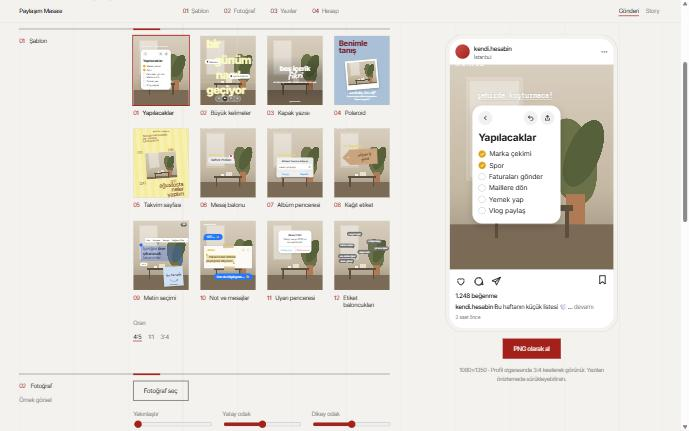
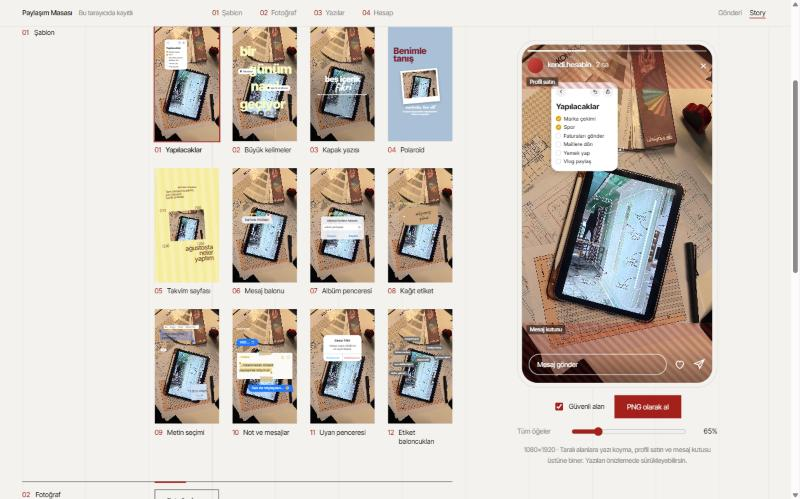
Paylaşım Masası önizlemesi güncel sürüm; AI başlıkları sadeleşti

diff --git a/ai/paylasim-masasi.html b/ai/paylasim-masasi.html
@@ -170,13 +170,38 @@ input[type=range]{width:100%;accent-color:var(--red)}
   .preview-col{position:static;order:-1;margin-bottom:40px}
   .work{display:flex;flex-direction:column}
 }
+#media [data-drag].selected{outline:6px solid #a3201b;outline-offset:6px}
+.bar .who .st{color:var(--muted);font-weight:400;margin-left:12px;font-size:12px}
+.sizer{width:100%;max-width:360px;display:grid;gap:6px}
+.sizer label{display:flex;align-items:center;gap:12px;font-size:12.5px;color:var(--muted)}
+.sizer label span{flex:none;width:84px}
+.sizer label b{flex:none;width:42px;text-align:right;font-weight:400;color:var(--ink);font-variant-numeric:tabular-nums}
+.mob{display:none}
+@media (max-width:760px){
+  input[type=text],textarea{font-size:16px}
+  input[type=range]{height:30px}
+  .hero{padding-top:28px;padding-bottom:20px}
+  .hero h1{font-size:clamp(2.6rem,13vw,4rem)}
+  .hero .meta,.foot,.bar .who .st{display:none}
+  .mob{display:flex;position:fixed;left:0;right:0;bottom:0;z-index:30;background:var(--paper);border-top:1px solid var(--ink);
+    padding:0 max(16px, env(safe-area-inset-right, 0px)) env(safe-area-inset-bottom, 0px) max(16px, env(safe-area-inset-left, 0px))}
+  .mob button{flex:1;font:inherit;font-size:14px;background:none;border:0;padding:16px 0;color:var(--muted);cursor:pointer}
+  .mob button[aria-pressed="true"]{color:var(--ink);text-decoration:underline;text-decoration-color:var(--red);text-underline-offset:5px;text-decoration-thickness:1.5px}
+  body[data-view="edit"] .preview-col{display:none}
+  body[data-view="preview"] .controls,body[data-view="preview"] .hero{display:none}
+  body[data-view="preview"] .preview-col{padding-top:20px}
+  .work{padding-bottom:120px}
+  .preview-col{margin-bottom:0}
+  .tpls{grid-template-columns:repeat(3,minmax(0,1fr));gap:18px 12px}
+  .sizer label span{width:76px}
+}
 @media (prefers-reduced-motion:reduce){*{transition:none!important}html{scroll-behavior:auto}}
 </style>
 
 <div class="bg-grid grid" aria-hidden="true"><i></i><i></i><i></i><i></i><i></i><i></i><i></i><i></i><i></i><i></i><i></i><i></i></div>
 
 <header class="bar grid">
-  <div class="who">Paylaşım Masası</div>
+  <div class="who">Paylaşım Masası<span class="st" id="sync"></span></div>
   <nav aria-label="Bölümler">
     <a href="#s-sablon"><span>01</span>Şablon</a>
     <a href="#s-foto"><span>02</span>Fotoğraf</a>
@@ -261,9 +286,18 @@ input[type=range]{width:100%;accent-color:var(--red)}
       <label class="chk" id="safe-wrap" hidden><input type="checkbox" id="safe" checked> Güvenli alan</label>
       <button class="btn solid" id="export" type="button">PNG olarak al</button>
     </div>
+    <div class="sizer">
+      <label for="gsize"><span>Tüm öğeler</span><input type="range" id="gsize" min="40" max="160" value="100"><b id="gsize-v">100%</b></label>
+      <label for="osize" id="osize-wrap" hidden><span>Seçili öğe</span><input type="range" id="osize" min="30" max="200" value="100"><b id="osize-v">100%</b></label>
+    </div>
     <p class="hint" id="hint"></p>
   </aside>
 </div>
+
+<nav class="mob" aria-label="Görünüm">
+  <button id="v-edit" data-v="edit" aria-pressed="true">Düzenle</button>
+  <button id="v-prev" data-v="preview" aria-pressed="false">Önizle</button>
+</nav>
 
 <footer class="foot grid"><p>Paylaşım Masası</p><span>Instagram önizleme aracı</span></footer>
 
@@ -272,8 +306,8 @@ input[type=range]{width:100%;accent-color:var(--red)}
   <div class="box" role="dialog" aria-label="Dışa aktarılan görsel">
     <strong id="m-title" style="font-weight:500">Görsel hazır</strong>
     <img id="m-img" alt="Dışa aktarılan paylaşım görseli">
-    <p>Görsele sağ tıklayıp “Resmi farklı kaydet” ile (telefonda basılı tutarak) kaydedebilirsin.</p>
-    <div><button class="btn" id="m-close" type="button">Kapat</button></div>
+    <div style="display:flex;gap:12px;flex-wrap:wrap"><button class="btn solid" id="m-save" type="button" style="flex:1">Telefona / bilgisayara kaydet</button><button class="btn" id="m-close" type="button">Kapat</button></div>
+    <p id="m-note">Kaydet'e dokun, çıkan pencerede onayla. Telefonda paylaşım menüsü açılırsa “Resmi Kaydet”i seç.</p>
   </div>
 </div>
 
@@ -600,8 +634,9 @@ const safeFor = mode => mode === "story" ? { t: 250, b: 340 } : { t: 0, b: 0 };
 
 function buildStage(tplId, mode, W, H){
   const tp = tplById(tplId), td = T(tplId), off = td.off[mode] || (td.off[mode] = {});
-  const D = (key, pos, inner) => { const o = off[key] || { x: 0, y: 0 };
-    return `<div data-drag="${key}" style="position:absolute;${pos};transform:translate(${o.x}px,${o.y}px)">${inner}</div>`; };
+  const gs = td.gs || 1;
+  const D = (key, pos, inner) => { const o = off[key] || { x: 0, y: 0 }, sc = +(gs * (o.s || 1)).toFixed(3);
+    return `<div data-drag="${key}" data-sc="${sc}" style="position:absolute;${pos};transform:translate(${o.x}px,${o.y}px) scale(${sc});transform-origin:50% 50%">${inner}</div>`; };
   const img = imgLayer();
   const d = { img, D, raw: td, eyebrow: esc(td.eyebrow), title: br(td.title), body: br(td.body), footer: esc(td.footer),
     bg: td.bg || "#ffffff", fg: td.fg || "#111111", ac: td.ac || "#111111", user: esc(state.user) };
@@ -652,6 +687,11 @@ function render(){
     media.insertAdjacentHTML("beforeend", `<div class="safe t" style="top:0;height:${s.t * K}px"><span>Profil satırı</span></div><div class="safe b" style="bottom:0;height:${s.b * K}px"><span>Mesaj kutusu</span></div>`);
   }
   media.addEventListener("pointerdown", startDrag);
+  const td = T(), selEl = state.sel ? media.querySelector(`[data-drag="${state.sel}"]`) : null;
+  if (selEl) selEl.classList.add("selected");
+  $("osize-wrap").hidden = !selEl;
+  $("gsize").value = Math.round((td.gs || 1) * 100); $("gsize-v").textContent = $("gsize").value + "%";
+  if (selEl){ const o = td.off[state.mode][state.sel] || {}; $("osize").value = Math.round((o.s || 1) * 100); $("osize-v").textContent = $("osize").value + "%"; }
   const more = $("more"); if (more) more.onclick = () => { state.capOpen = true; render(); };
 
   const tags = (state.caption.match(/#[\p{L}\p{N}_]+/gu) || []).length, len = [...state.caption].length;
@@ -664,14 +704,17 @@ function render(){
 
 /* Sürükleme: önizlemedeki öğeyi tut, bırakınca konumu şablona kaydet */
 function startDrag(e){
-  const el = e.target.closest("[data-drag]"); if (!el) return;
+  const el = e.target.closest("[data-drag]");
+  if (!el){ if (state.sel){ state.sel = null; render(); } return; }
   e.preventDefault();
-  const key = el.dataset.drag, off = T().off[state.mode], base = off[key] || { x: 0, y: 0 };
-  const sx = e.clientX, sy = e.clientY; let x = base.x, y = base.y;
-  el.classList.add("dragging"); el.setPointerCapture(e.pointerId);
-  const move = ev => { x = base.x + (ev.clientX - sx) / K; y = base.y + (ev.clientY - sy) / K; el.style.transform = `translate(${x}px,${y}px)`; };
+  const key = el.dataset.drag, off = T().off[state.mode], base = off[key] || { x: 0, y: 0 }, sc = el.dataset.sc || 1;
+  const sx = e.clientX, sy = e.clientY; let x = base.x || 0, y = base.y || 0, moved = false;
+  el.classList.add("dragging", "selected"); el.setPointerCapture(e.pointerId);
+  const move = ev => { if (Math.abs(ev.clientX - sx) + Math.abs(ev.clientY - sy) > 3) moved = true;
+    x = (base.x || 0) + (ev.clientX - sx) / K; y = (base.y || 0) + (ev.clientY - sy) / K; el.style.transform = `translate(${x}px,${y}px) scale(${sc})`; };
   const up = () => { el.removeEventListener("pointermove", move); el.removeEventListener("pointerup", up); el.removeEventListener("pointercancel", up);
-    off[key] = { x: Math.round(x), y: Math.round(y) }; render(); thumbsSoon(); };
+    if (moved) off[key] = { ...(off[key] || {}), x: Math.round(x), y: Math.round(y) };
+    state.sel = key; render(); if (moved) thumbsSoon(); };
   el.addEventListener("pointermove", move); el.addEventListener("pointerup", up); el.addEventListener("pointercancel", up);
 }
 
@@ -687,7 +730,7 @@ function renderThumbs(){
     const th = b.querySelector(".thumb"), inner = document.createElement("div");
     inner.appendChild(buildStage(t.id, state.mode, W, H)); th.appendChild(inner);
     requestAnimationFrame(() => { inner.style.transform = `scale(${th.clientWidth / W})`; });
-    b.onclick = () => { state.tpl = t.id; renderFields(); renderThumbs(); render(); };
+    b.onclick = () => { state.tpl = t.id; state.sel = null; renderFields(); renderThumbs(); render(); };
   });
 }
 let thumbTimer; const thumbsSoon = () => { clearTimeout(thumbTimer); thumbTimer = setTimeout(renderThumbs, 250); };
@@ -714,14 +757,61 @@ function renderFields(){
   });
 }
 
-/* ============================ Taslak kaydı ============================ */
-const KEY = "paylasim-masasi-v2";
+/* ============================ Kayıt: bulut (db + assets), yedek olarak bu tarayıcı ============================ */
+const KEY = "paylasim-masasi-portfolyo";
+const Cloud = { ref: null, assets: null, dl: null, timer: null, last: "", ready: false };
+const clone = o => JSON.parse(JSON.stringify(o));
+const stable = v => Array.isArray(v) ? "[" + v.map(stable).join(",") + "]"
+  : v && typeof v === "object" ? "{" + Object.keys(v).sort().map(k => JSON.stringify(k) + ":" + stable(v[k])).join(",") + "}" : JSON.stringify(v ?? null);
+const snap = () => ({ ...state, capOpen: false, sel: null });
+function cloudBody(){ const o = clone(snap()); ["img", "av"].forEach(k => { if (o[k] && o[k].startsWith("data:")) o[k] = null; }); return o; }
+const setSync = t => { const el = $("sync"); if (el) el.textContent = t; };
 function save(){
-  try { localStorage.setItem(KEY, JSON.stringify({ ...state, capOpen: false })); }
-  catch (e){ try { localStorage.setItem(KEY, JSON.stringify({ ...state, img: null, av: null, capOpen: false })); } catch (_){} }
+  try { localStorage.setItem(KEY, JSON.stringify(snap())); }
+  catch (e){ try { localStorage.setItem(KEY, JSON.stringify({ ...snap(), img: null, av: null })); } catch (_){} }
+  if (!Cloud.ref || !Cloud.ready) return;
+  clearTimeout(Cloud.timer);
+  Cloud.timer = setTimeout(async () => {
+    const body = cloudBody(), js = stable(body);
+    if (js === Cloud.last){ Cloud.timer = null; return; }
+    setSync("Kaydediliyor…");
+    try { await Cloud.ref.set(body); Cloud.last = js; setSync("Buluta kaydedildi"); }
+    catch (e){ setSync(e && e.code === "permission_denied" ? "Sadece görüntüleme" : "Kaydedilemedi"); }
+    Cloud.timer = null;
+  }, 900);
+}
+async function initCloud(){ setSync("Bu tarayıcıda kayıtlı"); return;
+  let db = null;
+  try { if (window.claude && claude.use) [db, Cloud.assets, Cloud.dl] = await Promise.all([claude.use("db"), claude.use("assets"), claude.use("downloads")]); } catch (e){}
+  if (!db){ setSync("Bu tarayıcıda kayıtlı"); return; }
+  Cloud.ref = db.doc("masa/durum"); setSync("Buluta bağlanıyor…");
+  const t = setTimeout(() => { if (!Cloud.ready) setSync("Buluta ulaşılamadı"); }, 10000);
+  Cloud.ref.onSnapshot(s => {
+    clearTimeout(t);
+    const first = !Cloud.ready; Cloud.ready = true;
+    if (!s.exists){ if (first) save(); setSync("Buluta kaydedildi"); return; }
+    const data = s.data(), js = stable(data);
+    if (js === Cloud.last || Cloud.timer){ setSync("Buluta kaydedildi"); return; }
+    Cloud.last = js;
+    const localImg = state.img, localAv = state.av;
+    Object.assign(state, clone(data), { capOpen: false, sel: null });
+    if (!state.img && localImg && localImg.startsWith("data:")) state.img = localImg;
+    if (!state.av && localAv && localAv.startsWith("data:")) state.av = localAv;
+    if (!TEMPLATES.some(x => x.id === state.tpl)) state.tpl = TEMPLATES[0].id;
+    syncInputs(); renderFields(); renderThumbs(); render();
+    setSync("Buluta kaydedildi");
+  }, () => { clearTimeout(t); setSync("Bulut bağlantısı koptu, sayfayı yenile"); });
+}
+async function imageSrc(file, dataUrl){
+  if (Cloud.assets){ try { const r = await Cloud.assets.upload(file); return "/_blob/" + r.id; } catch (e){} }
+  return dataUrl;
 }
 function load(){ try { const s = JSON.parse(localStorage.getItem(KEY) || "null"); if (s) Object.assign(state, s); } catch (e){} if (!TEMPLATES.some(t => t.id === state.tpl)) state.tpl = TEMPLATES[0].id; }
+Object.assign(state, {"av":null,"capOpen":false,"caption":"Bu haftanın küçük listesi 🤍\n\nYarısını bitirdim, yarısı hâlâ bekliyor. Sizin bu hafta listenizde ne var? Yorumlara yazın, belki birbirimize ilham oluruz.\n\n#gününbiri #yapılacaklar #içerikplanı","img":"../assets/ai/paylasim-foto.jpg","loc":"İstanbul","mode":"story","px":50,"py":50,"ratio":"4:5","sel":null,"showSafe":true,"t":{"album":{"ac":"#f1e27a","bg":"#f2f2f2","body":"sabah yürüyüşü","eyebrow":"04. albüm adı","fg":"#111111","footer":"Vazgeç|Kaydet","off":{"post":{},"story":{}},"title":"Albümü Yeniden Adlandır"},"baloncuk":{"bg":"#6f6f6f","body":"sosyal hayat\nhediye telaşı\nkahve molası\nyıl sonu işleri\natıştırmalık\nson dakika işleri\ndekor görevi","eyebrow":"","fg":"#ffffff","footer":"","off":{"post":{},"story":{"b3":{"x":7,"y":27},"b6":{"x":-68,"y":51}}},"title":""},"etiket":{"ac":"#f1e27a","bg":"#c9a47c","body":"","eyebrow":"05. kağıt etiket","fg":"#2b2018","footer":"","off":{"post":{},"story":{}},"title":"alışveriş\ngünü"},"kapak":{"ac":"#ffffff","body":"NE PAYLAŞACAĞINI BİLMEDİĞİN GÜNLER İÇİN","eyebrow":"","fg":"#ffffff","footer":"","off":{"post":{},"story":{}},"title":"beş içerik\n*fikri*"},"kelimeler":{"ac":"#1c1c1e","bg":"#ffffff","body":"","eyebrow":"İstanbul","fg":"#fbfcc4","footer":"içerik üreticisi","off":{"post":{},"story":{}},"title":"bir\ngünüm\nnasıl\ngeçiyor"},"liste":{"ac":"#e0a516","bg":"#ffffff","body":"*Marka çekimi\n*Spor\nFaturaları gönder\nMaillere dön\nYemek yap\nVlog paylaş","eyebrow":"şehirde koşturmaca!","fg":"#1c1c1e","footer":"","gs":0.65,"off":{"post":{},"story":{"kart":{"x":-86,"y":-439},"not":{"x":-11,"y":143}}},"title":"Yapılacaklar"},"mesaj":{"ac":"#f1e27a","bg":"#ececec","body":"","eyebrow":"03. mesaj","fg":"#111111","footer":"❤","off":{"post":{},"story":{}},"title":"kahve molası"},"notlar":{"ac":"#d9aa00","bg":"#fbfaf6","body":"VEE... 👀\nSen de böyleysen... 🙃","eyebrow":"@kendi.hesabin","fg":"#1f7aff","footer":"Notlar","off":{"post":{},"story":{}},"title":"...tükenmeden düzenli paylaşmak istiyorum."},"polaroid":{"ac":"#ffffff","bg":"#a9c0d6","body":"Sosyal medyayı birlikte kolaylaştıralım.\nKöşeme hoş geldin!","eyebrow":"merhaba, ben elif","fg":"#7a2131","footer":"","off":{"post":{},"story":{}},"title":"Benimle\ntanış"},"secim":{"ac":"#2f6bff","bg":"#cfe0f5","body":"Kes|Kopyala|Yapıştır|Bağlantı Ekle","eyebrow":"1/6","fg":"#333333","footer":"Itsss okeyyy","gs":0.7,"off":{"post":{},"story":{"dusunce":{"x":-55,"y":-407},"not":{"x":-39,"y":74},"secim":{"x":-174,"y":-384}}},"title":"Some designer problems "},"takvim":{"ac":"#3a3a32","bg":"#f6ec9e","body":"Tam zamanlı iş sahibi,\nyarı zamanlı\niçerik üreticisi","eyebrow":"@KENDI.HESABIN","fg":"#6b3a1f","footer":"17, 18, 24, 25","off":{"post":{},"story":{}},"title":"ağustosta\nneler\nyaptım"},"uyari":{"ac":"#3aa6e8","bg":"#ffffff","body":"Takipçi sayısı 2026'nın\nen zayıf ölçütü.","eyebrow":"","fg":"#111111","footer":"Katılıyorum|Katılmıyorum","off":{"post":{},"story":{}},"title":"Cesur Fikir"}},"tpl":"liste","user":"kendi.hesabin","zoom":100});
 load();
+/* Portfolyo önizlemesi: örnek fotoğrafla açılır, dokunana kadar şablonları gezer */
+(function(){let stop=false;const end=()=>{stop=true};["pointerdown","keydown","wheel"].forEach(t=>addEventListener(t,end,{once:true,passive:true}));
+ let i=0;(function next(){setTimeout(()=>{if(stop)return;const b=[...document.querySelectorAll(".tpl")];if(b.length){i=(i+1)%Math.min(b.length,8);b[i].click();}next();},3000)})();})();
 
 /* ============================ Kontroller ============================ */
 function syncInputs(){
@@ -738,18 +828,31 @@ function syncInputs(){
 ["user", "loc", "caption"].forEach(f => $(f).addEventListener("input", e => { state[f] = e.target.value; if (f === "caption") state.capOpen = false; render(); if (f === "user") thumbsSoon(); }));
 ["zoom", "px", "py"].forEach(r => $(r).addEventListener("input", e => { state[r] = +e.target.value; render(); thumbsSoon(); }));
 $("safe").addEventListener("change", e => { state.showSafe = e.target.checked; render(); });
-document.querySelectorAll("[data-mode]").forEach(b => b.onclick = () => { state.mode = b.dataset.mode; syncInputs(); renderThumbs(); render(); });
+document.querySelectorAll("[data-mode]").forEach(b => b.onclick = () => { state.mode = b.dataset.mode; state.sel = null; syncInputs(); renderThumbs(); render(); });
 document.querySelectorAll("[data-ratio]").forEach(b => b.onclick = () => { state.ratio = b.dataset.ratio; syncInputs(); renderThumbs(); render(); });
-$("reset-pos").onclick = () => { T().off[state.mode] = {}; render(); thumbsSoon(); };
+$("reset-pos").onclick = () => { T().off[state.mode] = {}; T().gs = 1; state.sel = null; render(); thumbsSoon(); };
+$("gsize").addEventListener("input", e => { T().gs = +e.target.value / 100; render(); thumbsSoon(); });
+$("osize").addEventListener("input", e => { if (!state.sel) return; const off = T().off[state.mode];
+  off[state.sel] = { ...(off[state.sel] || { x: 0, y: 0 }), s: +e.target.value / 100 }; render(); thumbsSoon(); });
+
+/* Telefonda Düzenle / Önizle geçişi */
+function setView(v){ document.body.dataset.view = v;
+  document.querySelectorAll(".mob button").forEach(b => b.setAttribute("aria-pressed", String(b.dataset.v === v)));
+  window.scrollTo(0, 0); if (v === "preview") render(); }
+document.querySelectorAll(".mob button").forEach(b => b.onclick = () => setView(b.dataset.v));
+document.body.dataset.view = "edit";
 
 function readFile(input, cb){
   input.addEventListener("change", () => { const f = input.files[0]; if (!f) return;
-    const r = new FileReader(); r.onload = () => cb(r.result, f.name); r.readAsDataURL(f); input.value = ""; });
+    const r = new FileReader(); r.onload = () => cb(f, r.result); r.readAsDataURL(f); input.value = ""; });
 }
 $("img-btn").onclick = () => $("img").click();
 $("av-btn").onclick = () => $("av").click();
-readFile($("img"), (url, name) => { state.img = url; state.zoom = 100; state.px = 50; state.py = 50; syncInputs(); $("img-name").textContent = name; render(); renderThumbs(); });
-readFile($("av"), url => { state.av = url; render(); });
+readFile($("img"), async (f, dataUrl) => {
+  $("img-name").textContent = "Yükleniyor…";
+  state.img = await imageSrc(f, dataUrl); state.zoom = 100; state.px = 50; state.py = 50;
+  syncInputs(); $("img-name").textContent = f.name; render(); renderThumbs(); });
+readFile($("av"), async (f, dataUrl) => { state.av = await imageSrc(f, dataUrl); render(); });
 
 /* ============================ PNG ============================ */
 $("export").onclick = async () => {
@@ -762,6 +865,27 @@ $("export").onclick = async () => {
     off.innerHTML = "";
     const url = canvas.toDataURL("image/png");
     $("m-img").src = url; $("m-title").textContent = `Görsel hazır · ${W}×${H}`; $("modal").hidden = false;
+    const fname = `${state.mode === "story" ? "story" : "gonderi"}-${state.tpl}.png`;
+    const note = $("m-note"), sv = $("m-save");
+    const blob = await new Promise(res => canvas.toBlob(res, "image/png"));
+    if (!Cloud.dl){
+      sv.hidden = true;
+      note.textContent = "Bu görünümde doğrudan kaydetme kapalı. Görsele basılı tut ya da sağ tıkla, “Resmi Kaydet”i seç. Olmazsa sayfayı claude.ai'de tarayıcıdan aç.";
+    } else {
+      sv.hidden = false; sv.disabled = false;
+      note.textContent = "Kaydet'e dokun, çıkan pencerede onayla. Telefonda paylaşım menüsü açılırsa “Resmi Kaydet”i seç.";
+      sv.onclick = async () => {
+        sv.disabled = true; note.textContent = "Kaydetme penceresi açılıyor…";
+        try { await Cloud.dl.save({ filename: fname, data: blob }); note.textContent = "Kaydedildi."; }
+        catch (e){
+          const c = e && e.code;
+          note.textContent = c === "declined" ? "Kaydetme iptal edildi. Tekrar denemek için butona dokun."
+            : c === "rate_limited" ? "Açık bir kaydetme penceresi var. Onu kapatıp tekrar dene."
+            : "Bu görünümde kaydedilemedi. Görsele basılı tutup “Resmi Kaydet”i dene ya da sayfayı tarayıcıda aç.";
+        }
+        sv.disabled = false;
+      };
+    }
   } catch (e){ $("hint").textContent = "Görsel oluşturulamadı. Sayfayı yenileyip tekrar dene."; }
   finally { btn.disabled = false; btn.textContent = "PNG olarak al"; }
 };
@@ -770,6 +894,7 @@ $("modal").addEventListener("click", e => { if (e.target.id === "modal") $("moda
 document.addEventListener("keydown", e => { if (e.key === "Escape") $("modal").hidden = true; });
 
 syncInputs(); renderFields(); renderThumbs(); render();
+initCloud();
 let rz; window.addEventListener("resize", () => { clearTimeout(rz); rz = setTimeout(() => { render(); renderThumbs(); }, 120); });
 if (document.fonts) document.fonts.ready.then(() => { render(); renderThumbs(); });
 </script>

diff --git a/data.js b/data.js
@@ -71,7 +71,7 @@ const SITE = {
   // onizleme: tıklanınca kendi kendine oynayan, etkileşimi kapalı canlı önizleme
   aiIsler: [
     {
-      baslik: { tr: "Villa Yapım Turu", en: "Villa Construction Tour" },
+      baslik: { tr: "3D Yapım Turu", en: "3D Construction Tour" },
       arac: "Claude",
       aciklama: {
         tr: "Bir villanın arsadan salona yedi aşamada inşa edilişini gösteren, kaydırmayla ilerleyen etkileşimli 3D anlatım arayüzü.",
@@ -82,7 +82,7 @@ const SITE = {
       link: "",
     },
     {
-      baslik: { tr: "Paylaşım Masası", en: "Social Post Studio" },
+      baslik: { tr: "Sosyal Medya Şablonları", en: "Social Media Templates" },
       arac: "Claude",
       aciklama: {
         tr: "Instagram gönderi ve story tasarımlarını, paylaşmadan önce akışta nasıl görüneceğiyle birlikte hazırlayan bir araç. 12 şablon, sürüklenebilir yazılar ve PNG dışa aktarma.",
@@ -90,10 +90,11 @@ const SITE = {
       },
       gorsel: "assets/ai/paylasim-masasi.jpg",
       onizleme: "ai/paylasim-masasi.html",
+      etkilesimli: true,
       link: "",
     },
     {
-      baslik: { tr: "Sunum Altlığı", en: "Presentation Layout Tool" },
+      baslik: { tr: "Sunum Paftası Aracı", en: "Presentation Board Tool" },
       arac: "Claude",
       aciklama: {
         tr: "Plan, analiz ve render görsellerini sürükle-bırak ile sunum paftalarına dizen arayüz. Sunumlar otomatik kaydedilir, PNG ya da tek PDF olarak dışa aktarılır.",
@@ -105,7 +106,7 @@ const SITE = {
       link: "",
     },
     {
-      baslik: { tr: "Moodboard Stüdyosu", en: "Moodboard Studio" },
+      baslik: { tr: "Malzeme Panosu", en: "Material Board" },
       arac: "Claude",
       aciklama: {
         tr: "Bir renderdan malzeme ve renk paletini çıkarıp kolaj, malzeme panosu ve konsept panosu hazırlayan stüdyo. Panolar PDF olarak indirilebiliyor.",
@@ -117,7 +118,7 @@ const SITE = {
       link: "",
     },
     {
-      baslik: { tr: "Aurel — Yapım Turu", en: "Aurel — Construction Tour" },
+      baslik: { tr: "Kat Kat Villa Diyagramı", en: "Floor-by-Floor Villa Diagram" },
       arac: "Claude",
       aciklama: {
         tr: "Aurel villasının çizim setinden kurulan 3D aksonometrik diyagram. Kaydırdıkça katlar kat kat yükseliyor, ayrılıp mahallerini gösteriyor; ardından gün ışığı sabahtan geceye dönüyor ve kesitlerde iç mekân yerleşimi açılıyor.",
@@ -129,7 +130,7 @@ const SITE = {
       link: "",
     },
     {
-      baslik: { tr: "Şantiye Eskiz Stüdyosu", en: "Site Sketch Studio" },
+      baslik: { tr: "Şantiye Eskizi", en: "Site Sketch Overlay" },
       arac: "Claude",
       aciklama: {
         tr: "Şantiye fotoğrafının üstüne aynı açıdaki render'ı el çizimi gibi beyaz çizgilerle bindiren araç. Çizgiler render'dan otomatik çıkarılıyor; hizalama, silgi, el yazısı notlar ve oklarla paylaşıma hazır görsel üretiyor.",
@@ -141,7 +142,7 @@ const SITE = {
       link: "",
     },
     {
-      baslik: { tr: "Bu portfolyo sitesi", en: "This portfolio website" },
+      baslik: { tr: "Portfolyo Sitesi", en: "Portfolio Website" },
       arac: "Claude Code",
       aciklama: {
         tr: "Tasarımdan iki dilli içeriğe kadar bu siteyi yapay zekâ ile birlikte kodladım.",

diff --git a/index.html b/index.html
@@ -7,13 +7,13 @@
   <link rel="preconnect" href="https://fonts.googleapis.com" />
   <link rel="preconnect" href="https://fonts.gstatic.com" crossorigin />
   <link href="https://fonts.googleapis.com/css2?family=Inter+Tight:wght@300;400;500&display=swap" rel="stylesheet" />
-  <link rel="stylesheet" href="style.css?v=20261121174435" />
+  <link rel="stylesheet" href="style.css?v=20261121181133" />
 </head>
 <body>
   <!-- Sayfa, script.js tarafından data.js'e göre oluşturulur -->
   <div id="app"></div>
-  <script src="data.js?v=20261121174435"></script>
-  <script src="script.js?v=20261121174435"></script>
-  <script src="editor.js?v=20261121174435"></script>
+  <script src="data.js?v=20261121181133"></script>
+  <script src="script.js?v=20261121181133"></script>
+  <script src="editor.js?v=20261121181133"></script>
 </body>
 </html>
